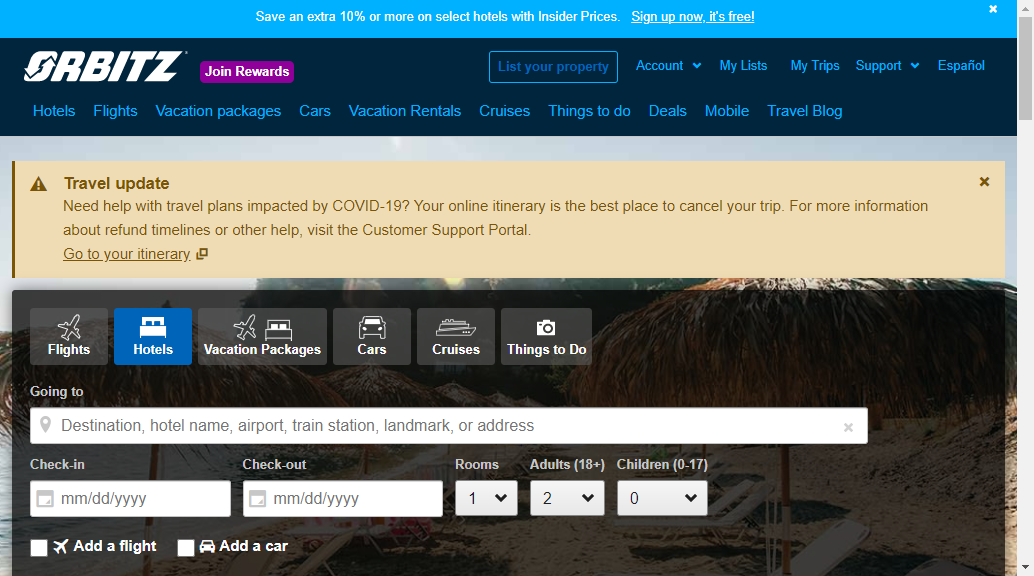
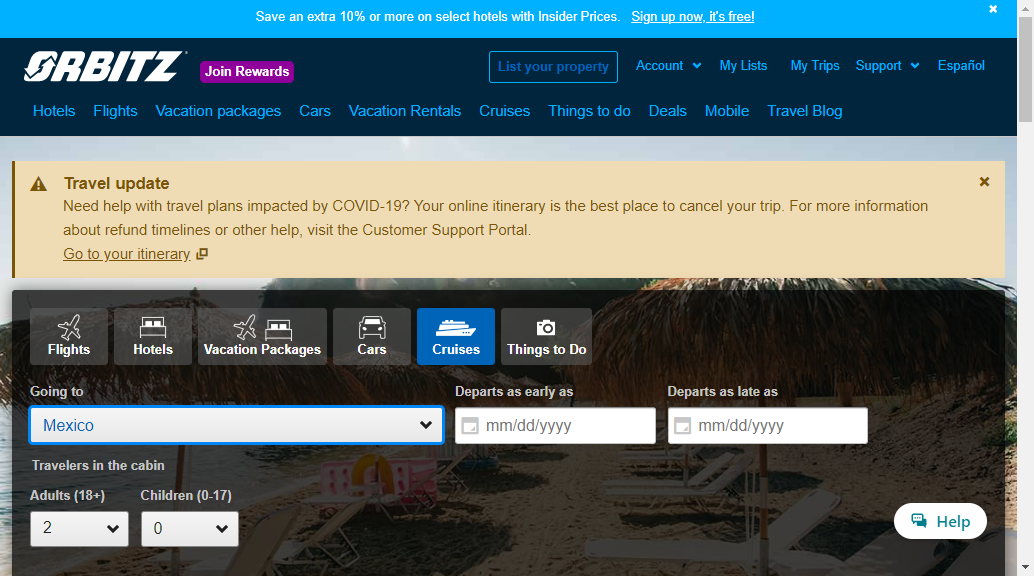
orbitz webside hase been modified

diff --git a/src/kamalaInstructor/OrbitzAssignment.java b/src/kamalaInstructor/OrbitzAssignment.java
@@ -1,21 +1,29 @@
 package kamalaInstructor;
 
+import java.io.File;
+import java.io.IOException;
+import java.util.List;
+import java.util.Scanner;
 import java.util.concurrent.TimeUnit;
 
 import org.openqa.selenium.By;
+import org.openqa.selenium.OutputType;
 import org.openqa.selenium.TakesScreenshot;
 import org.openqa.selenium.WebDriver;
 import org.openqa.selenium.WebElement;
 import org.openqa.selenium.chrome.ChromeDriver;
+import org.openqa.selenium.io.FileHandler;
+import org.openqa.selenium.support.ui.Select;
 
 public class OrbitzAssignment {
 
-	public static void main(String[] args) {
+	public static void main(String[] args) throws InterruptedException, IOException {
 		// TODO Auto-generated method stub
 		
 		System.setProperty("webdriver.chrome.driver", "drivers/chromedriver.exe");
 		WebDriver driver=new ChromeDriver();
 		driver.get("https://www.orbitz.com/");
+		driver.manage().window().maximize();
 		driver.manage().timeouts().implicitlyWait(30, TimeUnit.SECONDS);
 		TakesScreenshot screen=(TakesScreenshot)driver;
 		Boolean isDisplayed=driver.findElement(By.xpath("//span[@class='icon icon-hotels']")).isDisplayed();
@@ -26,8 +34,80 @@ public class OrbitzAssignment {
 	WebElement GetAttributeValue=driver.findElement(By.name("destination"));
 	String textString=GetAttributeValue.getCssValue("width");
 	System.out.println(textString);
-	
-	
+//ensure that the user should be able to click on cruises tab
+	WebElement cruisesElement= driver.findElement(By.xpath("//button[@id='tab-cruise-tab-hp']"));
+	cruisesElement.click();
+//click on drop_down
+	WebElement destinationElement=driver.findElement(By.id("cruise-destination-hp-cruise"));
+	Thread.sleep(2000);
+	//click on destination drop_down
+	//destinationElement.click();
+	Select sDestination=new Select(destinationElement);
+	Thread.sleep(3000);
+	sDestination.selectByIndex(3);
+//print all the drop-down list in the console
+	List<WebElement>list=sDestination.getOptions();
+	for(int i=1;i<list.size();i++) {
+		String texts=list.get(i).getText();
+		System.out.println(texts);
+		}
+//take a scrrenShot 
+		TakesScreenshot sc= ((TakesScreenshot)driver);
+		File sourceFile=sc.getScreenshotAs(OutputType.FILE);
+		File destinatioFile=new File("ScreenShot/orbitz.png");
+		FileHandler.copy(sourceFile, destinatioFile);
+//depart as early as
+		WebElement departElement=driver.findElement(By.xpath("//input[@id='cruise-start-date-hp-cruise']"));
+		departElement.clear();
+		departElement.click();
+		driver.findElement(By.xpath("//*[@id='cruise-start-date-wrapper-hp-cruise']/div/div/div[2]/table/tbody/tr[5]/td[3]/button")).click();
+// depart as late as
+		WebElement deapartLate=driver.findElement(By.xpath("//input[@id='cruise-end-date-hp-cruise']"));
+		deapartLate.clear();
+		deapartLate.click();
+		driver.findElement(By.xpath("//*[@id='cruise-end-date-wrapper-hp-cruise']/div/div/div[3]/table/tbody/tr[3]/td[3]/button")).click();
+// select adult from adult select drop_down
+		WebElement adultElement=driver.findElement(By.xpath("//*[@id='cruise-adults-hp-cruise']"));
+		Thread.sleep(2000);
+		adultElement.click();
+		Select adultSelect=new Select(adultElement);
+		adultSelect.selectByIndex(2);
+// also print all the text available in adult drop_down
+		Thread.sleep(3000);
+		List<WebElement>AdultList=adultSelect.getOptions();
+		for(int i=0;i<AdultList.size();i++) {
+			String adultText=AdultList.get(i).getText();
+			System.out.println(adultText);
+			}
+//select child from the select drop_dwon
+		WebElement childElement=driver.findElement(By.xpath("//*[@id='cruise-children-hp-cruise']"));
+		childElement.click();
+		Select childSelect=new Select(childElement);
+		childSelect.selectByIndex(1);
+		
+		List<WebElement>childList=childSelect.getOptions();
+		for(int j=0;j<childList.size();j++) {
+			String child_drop_down=childList.get(j).getText();
+			System.out.println(child_drop_down);
+		}
+//select child age from select drop_down
+		WebElement childAgElement=driver.findElement(By.xpath("//*[@id='cruise-children-age-select-1-hp-cruise']"));
+		childAgElement.click();
+		Select ChildAgeSelect=new Select(childAgElement);
+		ChildAgeSelect.selectByIndex(7);
+//print all the text from the child age select drop_down
+		List<WebElement>childAgeList=childSelect.getOptions();
+		for(int y=0;y<childAgeList.size();y++) {
+			String childAgeString=childAgeList.get(y).getText();
+			System.out.println(childAgeString);
+		}
+//finally click on submit button
+		WebElement submit=driver.findElement(By.xpath("//*[@id='gcw-cruises-form-hp-cruise']/div[3]/label/button"));
+		submit.click();
+		
+		
+		
+		
 	
 
 	}

diff --git a/src/kamalaInstructor/GmailTaskHomework.java b/src/kamalaInstructor/GmailTaskHomework.java
@@ -51,6 +51,9 @@ public class GmailTaskHomework {
 	int heiElement=allElementDimension.getSize().getHeight();
     System.out.println(heiElement);
 		
+    
+    
+   
 		
 		driver.close();
 		
